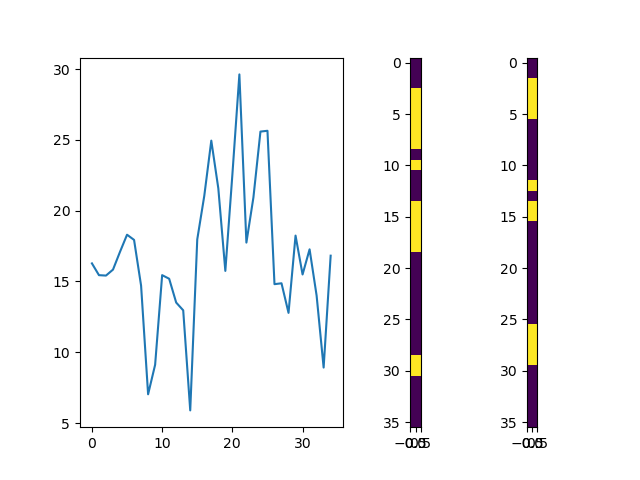
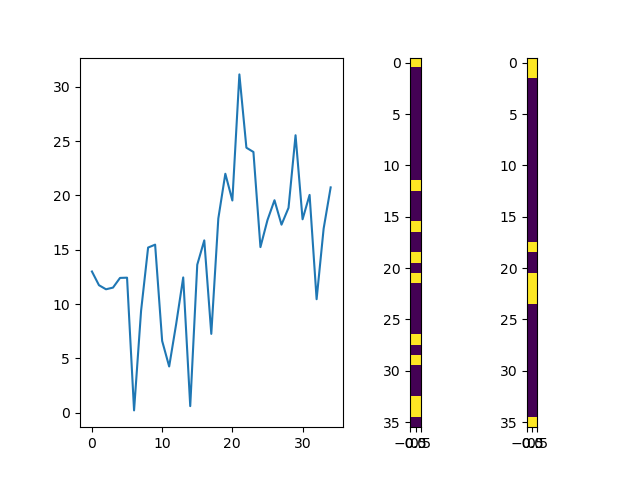
threshold

diff --git a/1d/peaks_to_slot/preprocess.py b/1d/peaks_to_slot/preprocess.py
@@ -15,10 +15,6 @@ def import_data(timestamp_list):
     max_list = []
 
     for timestamp in timestamp_list:
-        with open('comsol_results/1d/' + timestamp + '.pkl', 'rb') as file:
-            slots = np.array(pickle.load(file))
-            # print(slots.shape)
-            slots_list.append(slots)
 
         with open('comsol_results/1d/' + timestamp + '.csv', 'rb') as file:
             results = np.loadtxt(file, delimiter=",", dtype=float)
@@ -26,16 +22,25 @@ def import_data(timestamp_list):
             points = [361 * x for x in np.arange(num_sims + 1)]
             sorted_x = np.array([20*np.log10(results[i:i + 361,1]) for i in points[:-1]])
             peaks = sorted_x[:,floquet_back + floquet_forward]
+
+            past_thresh = [index for index,x in enumerate(peaks) if x.max() > 29]
+
             # max = peaks.max(axis=1)[:,None]
             # normalized = peaks / np.max(peaks,axis=0)
             # peaks_list.append(normalized)
             # peaks_list.append(normalized)
-            peaks_list.append(peaks)
+            peaks_list.append(peaks[past_thresh])
             # max_list.append(np.concatenate([max,max,max,max,max,max],axis=1))
 
+        with open('comsol_results/1d/' + timestamp + '.pkl', 'rb') as file:
+            slots = np.array(pickle.load(file))
+            # print(slots.shape)
+            slots_list.append(slots[past_thresh])
 
     # return np.concatenate(slots_list), np.concatenate([np.concatenate(peaks_list), np.concatenate(max_list)],axis=1)
     return np.concatenate(slots_list), np.concatenate(peaks_list)
+
+
 
 
 def get_next_batch(input_array, label_array, start_index, batch_size):
